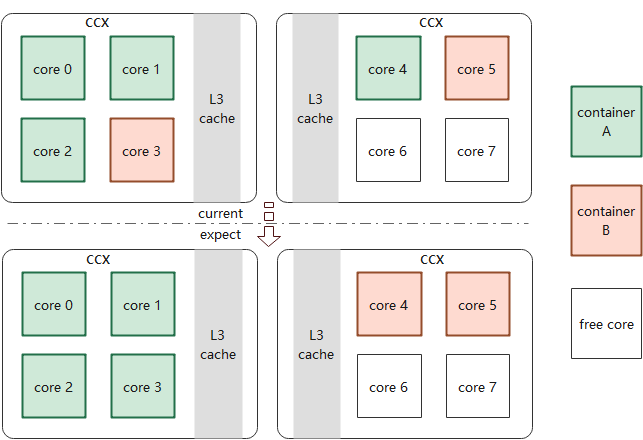
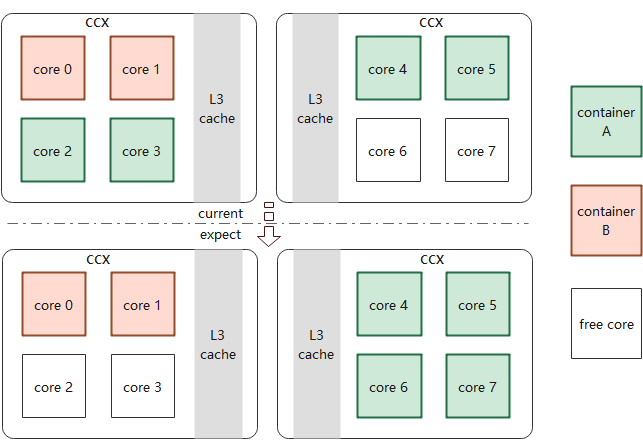
KEP-2621: Add feature gate.

diff --git a/keps/sig-node/2621-cpu-allocation-llc-affinity/README.md b/keps/sig-node/2621-cpu-allocation-llc-affinity/README.md
@@ -13,6 +13,9 @@
 - [Design Details](#design-details)
   - [Test Plan](#test-plan)
   - [Graduation Criteria](#graduation-criteria)
+    - [Alpha](#alpha)
+    - [Alpha to Beta Graduation](#alpha-to-beta-graduation)
+    - [Beta to G.A Graduation](#beta-to-ga-graduation)
   - [Upgrade / Downgrade Strategy](#upgrade--downgrade-strategy)
   - [Version Skew Strategy](#version-skew-strategy)
 - [Production Readiness Review Questionnaire](#production-readiness-review-questionnaire)
@@ -33,7 +36,7 @@ Items marked with (R) are required *prior to targeting to a milestone / release*
 - [ ] (R) KEP approvers have approved the KEP status as `implementable`
 - [x] (R) Design details are appropriately documented
 - [x] (R) Test plan is in place, giving consideration to SIG Architecture and SIG Testing input
-- [ ] (R) Graduation criteria is in place
+- [x] (R) Graduation criteria is in place
 - [ ] (R) Production readiness review completed
 - [ ] (R) Production readiness review approved
 - [ ] "Implementation History" section is up-to-date for milestone
@@ -47,68 +50,116 @@ Items marked with (R) are required *prior to targeting to a milestone / release*
 
 ## Summary
 
-Caches are not considered in current Kubernetes cpu-manager, in some architectures,  each socket/package owns more than one L3 cache, containers may encounter performance degradation for L3 cache interference and lower hit rate.
-Add support for L3 cache affinity during container cpu allocation, while in the same package/socket, try to use cpus sharing L3 cache  for container demand but not just choose from all cpus in the package/socket.
+Caches are not considered in current Kubernetes cpu-manager, in some architectures, each socket/package owns more than one L3 cache, containers may encounter performance degradation for L3 cache interference and lower hit rate.
+We propose to support for L3 cache affinity during container cpu allocation. While in the same package/socket, try to use cpus sharing L3 cache for container demand but not just choose from all cpus in the package/socket.
 
 ## Motivation
 
-Kubernetes cpu-manager tries to allocate cpus in the same core, socket/package, gaining better performance.  In traditional architecture, L3 cache is shared between the whole socket, current cpus allocator works well.
-However, the allocation algorithm may encounter problem in processors like 2nd Gen AMD EPYC™,  each ccx(a term used by AMD to describe a cluster of physical cores along with the shared level 3 cache) owns its L3 cache, more than one L3 cache exists in a socket/package. Depending on current cpu allocation may face L3 cache interference. For example, 4 cores with HT in ccx, a container demand for 8 cpus may not get the whole ccx, but get some cpus in other ccx(see figure below), container A and B may affect each other while the other flush l3 cache. In our opinion, container's cpu locality should be considered.
+Kubernetes cpu-manager tries to allocate cpus in the same core, socket/package, gaining better performance. In traditional architecture, L3 cache is shared between the whole socket, current cpus allocator works well.
+However, the allocation algorithm may encounter problem in processors like `2nd Gen AMD EPYC™`, each `ccx`(a term used by AMD to describe a cluster of physical cores along with the shared L3 cache) owns its L3 cache, more than one L3 cache exists in a socket/package, we call L3 caches like this as uncore-cache all this design). Depending on current cpu allocation may face uncore-cache interference. For example, 4 cores with HT in ccx, a container demand for 8 cpus may not get the whole ccx, but get some cpus in other ccx(see figure below), container A and B may affect each other while the other flush uncore-cache. In our opinion, container's cpu locality should be considered.
 
 ![allocation_motivation](allocation_motivation.png "allocation_motivation")
 
 ### Goals
 
-Support L3 cache affinity in cpu allocation in architecture with more than one l3 cache in socket/package.
+Support uncore-cache affinity in cpu allocation in architecture.
 
 ### Future Work
 
-Cross-die may also decrease process performance. We will add die affinity in the future.
+Cross-die may also decrease process performance. We will add die affinity future, and corresponding cpu assignment algorithm implemetation.
 
 ## Proposal
 
+In order to make a decision to allocate cpu with uncore-cache affinity, we should be aware of the uncore-cache information in kubelet, current kubelet gets cpu topology with cadvisor, which does not support the related details. So, we add cache id and uncore-cache items to cadvisor(all merged).
 - Add cache id to cadvisor
 In cadvisor PR(https://github.com/google/cadvisor/pull/2847/),  use /sys/devices/system/cpu/cpu*/cache/index3/id to get L3 cache id of current cpu, and store it as cpu topology.
+```go
+type Cache struct {
++	// Id of memory cache
++	Id int `json:"id"`
+	// Size of memory cache in bytes.
+	Size uint64 `json:"size"`
+	// Type of memory cache: data, instruction, or unified.
+	Type string `json:"type"`
+	// Level (distance from cpus) in a multi-level cache hierarchy.
+	Level int `json:"level"`
+}
+```
 - Add uncore cache to cadvisor
-In cadvisor PR(https://github.com/google/cadvisor/pull/2849), add L3 cache not shared among the whole socket(uncore cache) to core info in cpu topology.
+In cadvisor PR(https://github.com/google/cadvisor/pull/2849), add L3 cache not shared among the whole socket(uncore cache) to core info in cpu topology. And we can get core->uncore-cache mappings.
+```go
+type Core struct {
+	Id           int     `json:"core_id"`
+	Threads      []int   `json:"thread_ids"`
+	Caches       []Cache `json:"caches"`
++	UncoreCaches []Cache `json:"uncore_caches"`
+	SocketID     int     `json:"socket_id"`
+}
+```
 
 ### User Stories (Optional)
 
-Workload is memory sensitive, this feature can reduce memory(L3 cache) latency.
-Also, we make a bench with stream2 DAXPY, as we can see, cross ccx(cross l3 cache) gets lower bandwidth.
+Before change, when kubelet allocates cpus for containers, uncore-cache is not considered, and may get cpus across caches even there're free cpus shared uncore-caches. 
+We make a bench with `stream2` DAXPY, as we can see, cross ccx(cross uncore-cache) gets lower bandwidth.
 
 ![stream2_daxpy](stream2_daxpy.png "stream2_daxpy")
+
+And, when workload is memory sensitive, this feature can improve memory bandwidth significantly(20% above).
 
 ### Notes/Constraints/Caveats (Optional)
 
 ### Risks and Mitigations
 
-L3 cache affinity will not always get a better performance, however, we do think, workload in containers should not influence other containers. Decreasing L3 cache-miss in individual containers should be taken into consideration during programming workload or use other L3 cache allocation and isolation technology, which are not our topic.
++ Currently no risks was found.
++ Feature is enbled by a gate - a new kube feature with default false, potential risk effects could be limited.
 
 ## Design Details
 
 - Feature Gate
-More than one l3 cache should exist in a single socket/package, the feature will be auto enabled during cpu allocation.
+  - Add `CPUManagerUncoreCacheAlign` to kubelet's feature-gates to enable(true)/disable(false) the feature.
+  - Also, more than one l3 cache should exist in a single socket/package.
+
 - General Design
-Try to allocate cpus sharing the same cache if demand is larger than one core. Add L3 cache affinity before tring core affinity best-fit.
+  - Logic Elaboration
+  Try to allocate cpus sharing the same cache if demand is larger than one core. Add L3 cache affinity before tring core affinity best-fit.
+  If we cannot find llc-satisfied cpus, continue the original process(find available cores). 
 
 ![design_overview](design_overview.png "design_overview")
 
+  - feature-gates `CPUManagerUncoreCacheAlign`
+    `CPUManagerUncoreCacheAlign` should set `false` in `defaultKubernetesFeatureGates`. And make a judge in `takeByTopology`, `enable`->`(do l3 cache affinity best-fit)`,`disable`->`(skip)`.
 ### Test Plan
-
-Test should work on two scenarios:
-- For AMD rome/milan or other architectures with more than one L3 cache in a socket, cpu allocation for a container should always try to get all demand cpus sharing one L3 cache. Check containers’ cpuset.cpus for verification.
-- For other architectures, cpu allocation should be the same as before.
+- Unit tests for new added allocation algorithm.
+- E2E tests should work on two scenarios:
+  - For AMD rome/milan or other architectures with more than one L3 cache in a socket, cpu allocation for a container should always try to get all demand cpus sharing one L3 cache. Check containers’ cpuset.cpus for verification.
+  - For other architectures, cpu allocation should be the same as before.
 
 ### Graduation Criteria
+#### Alpha
 
+ - Implement the new policy.
+ - Ensure proper e2e node tests are in place.
+#### Alpha to Beta Graduation
+
+ - Gather feedback from the consumer of the policy.
+ - No major bugs reported in the previous cycle.
+#### Beta to G.A Graduation
+
+ - Allowing time for feedback (1 year).
+ - Risks have been addressed.
 ### Upgrade / Downgrade Strategy
 
+We expect no impact. The new kube feature is opt-in.
+
 ### Version Skew Strategy
+No changes needed.
 
 ## Production Readiness Review Questionnaire
 
 ### Feature Enablement and Rollback
+
+- Feature gate
+  We use a feature symbol `CPUManagerUncoreCacheAlign` with default `false` to kubelet's kube-feature.
 
 ### Rollout, Upgrade and Rollback Planning
 
@@ -116,12 +167,13 @@ Test should work on two scenarios:
 
 ### Dependencies
 
-High version cadvisor is in need, in which cache id  and uncore cache info are stored in cpu topology.
+High version cadvisor is in need, in which cache id and uncore cache info are stored in cpu topology.
 
 ### Scalability
 
 ### Troubleshooting
 
 ## Implementation History
-
-Original design doc with solutions considered: https://docs.google.com/document/d/1BuiBgsittUnU3heKHRCQ66YYxzAItT5gcPlu3N83PfA/edit#
+- 2021.5.10: KEP updated, add CPUManagerUncoreCacheAlign as a kube feature.
+- 2021.5.6: KEP created
+- 2021.5.1: Original design doc with solutions considered: https://docs.google.com/document/d/1BuiBgsittUnU3heKHRCQ66YYxzAItT5gcPlu3N83PfA/edit#
